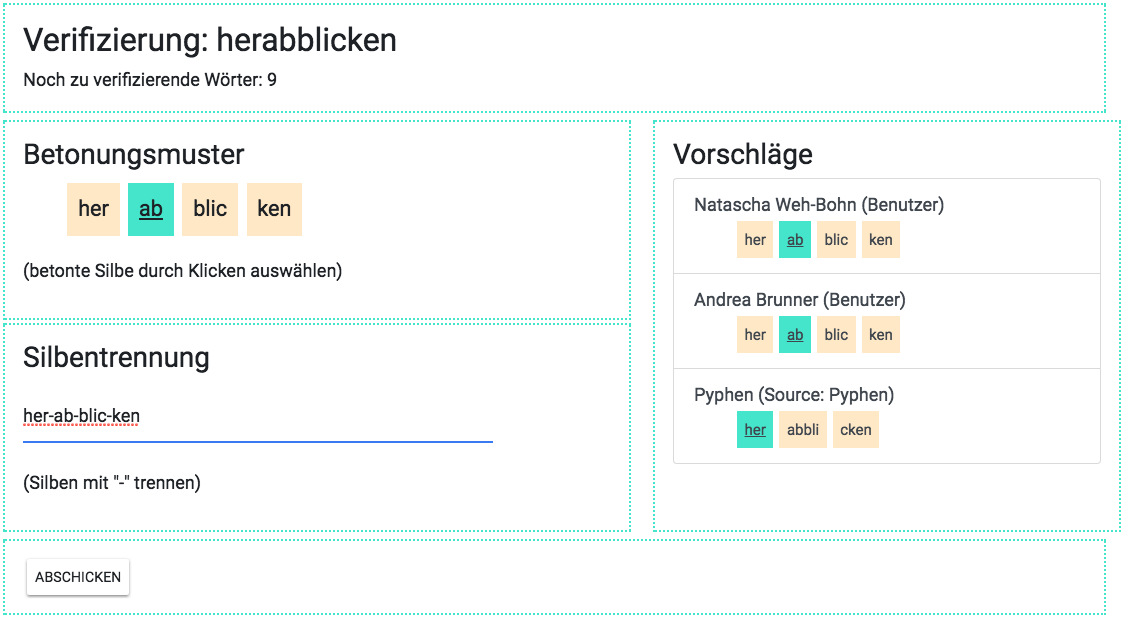
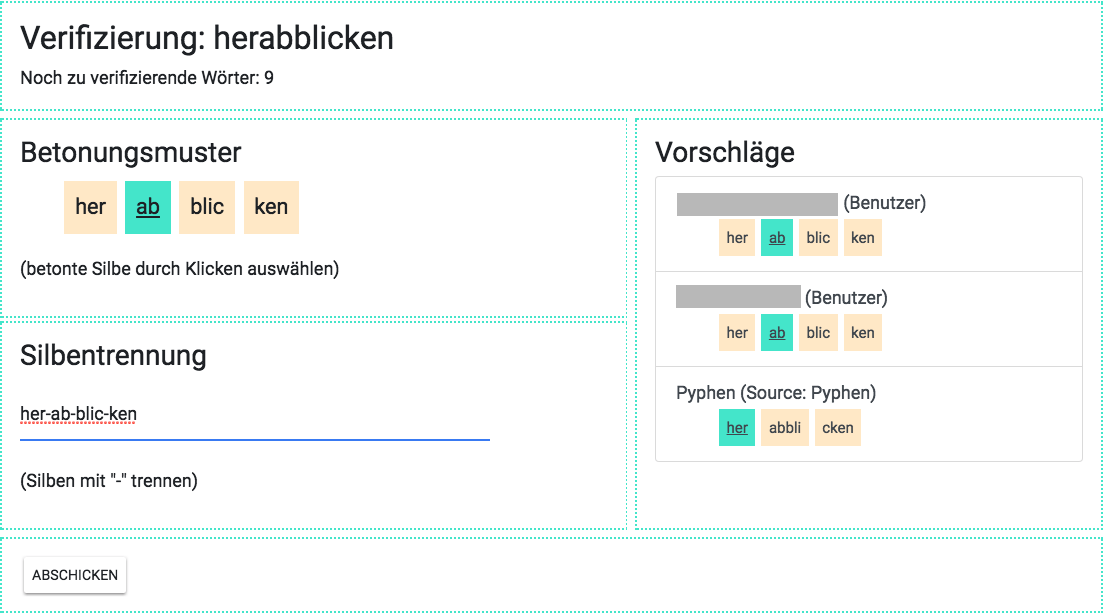
renamed thesis to actual title, wrote abstract

diff --git a/thesis/chapters/forschung.tex b/thesis/chapters/forschung.tex
@@ -39,19 +39,25 @@ vorhandene tools vorstellen, Literatur zu Tools, zeigen, wie diese Ideen weiterg
 
 Um das Ziel einer automatischen Analyse und Annotation beliebiger Texte zu realisieren, werden computerlinguistisch vor Allem die folgenden zwei Schritte untersucht:
 \begin{enumerate}
-	\item Linguistische Analyse (Zerlegung des Texts Wörter)
-	\item Nachschlagen der Betonungsmuster in einer Datenbank
+	\item Linguistische Analyse (Zerlegung des Texts in Wörter)
+	\item Bestimmung von Silbentrennung und Betonungsmuster
 \end{enumerate}
 
 \subsection{Linguistische Analyse}
-Da die vom Programm zu verarbeitende Eingabe ein Text ist, also eine beliebige Folge von alphanumerischen Zeichen, sowie Leerraumzeichen und Interpunktionen, muss diese Eingabe zunächst korrekt in Wörter zerteilt werden. Dieser Schritt wird \textbf{Tokenisierung} genannt. Zusätzlich werden auch von einem \textbf{Tagger} jedem Wort weitere Informationen, wie z.B. die Wortart (\textit{Part-of-Speech/POS-Tagger}) hinzugefügt. Diese werden üblicherweise mithilfe eines entsprechenden Lexikons nachgeschlagen. \cite{Carstensen2009}\todo{2. auflage 2014, S. 218-220, 224-226} Der für dieses Projekt verwendete Parser wird in Abschnitt \toref{spacy} näher beschrieben.
+Da die vom Programm zu verarbeitende Eingabe ein Text ist, also eine beliebige Folge von alphanumerischen Zeichen, sowie Leerraumzeichen und Interpunktionen, muss diese Eingabe zunächst korrekt in Wörter zerteilt werden. Dieser Schritt wird \textbf{Tokenisierung} genannt. Zusätzlich werden auch von einem \textbf{Tagger} jedem Wort weitere Informationen, wie z.B. die Wortart (\textit{Part-of-Speech/POS-Tagger}) hinzugefügt. Diese werden üblicherweise mithilfe eines entsprechenden Lexikons nachgeschlagen. \cite{Carstensen2009}\todo{2. auflage 2014, S. 218-220, 224-226} Der für dieses Projekt verwendete Parser wird in Abschnitt \toref{spacy} näher beschrieben. Beim Parsen des Texts können folgende wichtige Informationen extrahiert werden:
 
-\todo{Lemma, was ist das}\\
+\begin{itemize}
+	\item \textbf{Textstruktur}: Zerlegung des Texts in Tokens, dadurch wird bestimmt, ob es sich bei den Zeichenfolgen um Wörter oder andere Strukturen wie Leerraum oder Interpunktionen handelt
+	
+	\item \textbf{Wortart}: Die Werte der Wortart- (\textit{Part-of-Speech-}) Tags geben an um was für ein Wort es sich handelt (mit dem \textit{spacy} Parser z.B. \textit{NOM} für Nomen,\textit{PROPN} für Eigennamen, \textit{DET} für Artikel etc.)
+	
+	\item  \textbf{Lemma}: Gibt die Grundform eines Wortes an, welche je nach Wortart unterschiedliche Ausprägungen nehmen kann. Bei Verben steht hier z.B. der Infinitiv, bei Pronomen die erste Person Singular etc. \todo{hier Lemma für alle Wortarten beschreiben?}
+\end{itemize}
 
 \subsection{Datenbanken zur Wortbetoung}
-Nachdem der Text als Liste von Wörtern (Tokens) vorliegt kann auf dieser Ebene weitergearbeitet werden. Für die gewünschte Annotation des Textes muss eine Repräsentation in einzelnen Silben vorliegen. Zusätzlich wird für die Hervorhebung des Sprachrhythlmus die betonte Silbe im Wort gesucht. Es ist durchaus möglich, dass in einem Wort mehrere Betonungen vorkommen (gerade bei Wortkompositionen, die im Deutschen häufig zu finden sind, z.B. \textit{heraus+kommen}). Dies wird in der vorliegenden Arbeit vernachlässigt, es wird nur eine Hauptbetonung, die erste vorkommende Betonung im Wort, gesucht.\\
-Informationen zur Worttrennung in Silben und zur Wortbetonung lassen sich in diversen Lexika finden. Für die weitere Verwendung in der zu entwickelnden Applikation wurde als Grundlage das Lexikon CELEX2 gewählt. Dabei handelt es sich um ein umfangreiches Sprachlexikon für die Sprachen Englisch, Deutsch und Niederländisch. Verarbeitet wurden hier zunächst nur die deutsche Sprache. Neben der gesuchten Worttrennung und -betonung enthält es auch weitere linguistische Informationen wie Wortart und Grundformen sowie phonologische und orthographische Annotationen.
+Liegt der Text als Liste von Wörtern (Tokens) vor, kann auf dieser Ebene weitergearbeitet werden. Für die Annotation des Textes muss eine Repräsentation in einzelnen Silben vorliegen. Zusätzlich wird für die Hervorhebung des Sprachrhythmus die betonte Silbe im Wort gesucht. Es ist durchaus möglich, dass in einem Wort mehrere Betonungen vorkommen (gerade bei Wortkompositionen, die im Deutschen häufig zu finden sind, z.B. \textit{heraus+kommen}). Dies wird hier vernachlässigt, es wird nur eine Hauptbetonung, die erste vorkommende Betonung im Wort gesucht.\\
+Informationen zur Worttrennung in Silben und zur Wortbetonung lassen sich in diversen Lexika finden. \todo{Welche?} Für die weitere Verwendung in der zu entwickelnden Applikation wurde als Grundlage das Lexikon CELEX2 gewählt. Dabei handelt es sich um ein umfangreiches Sprachlexikon für die Sprachen Englisch, Deutsch und Niederländisch. Verarbeitet wurden hier zunächst nur die deutsche Sprache. Neben der gesuchten Worttrennung und -betonung enthält es auch weitere linguistische Informationen wie Wortart und Grundformen sowie phonologische und orthographische Annotationen \tocite{CELEX Publikation} .
 \todo{Alternativen, welche? könnten zusätzlich oder anstelle des CELEX verwendet werden}\\
-Weiterführend wurden auch Text-To-Speech Systeme untersucht. Diese müssen um zu funktionieren zwangsweise eine phonologische Analyse durchführen, also auch die Wortbetonung bestimmen. Beispielsweise liefern die Systeme MARY TTS\tocite{MARY, woher?} oder BAS\tocite{BAS} auch textuellen annotiere Formen ihrer phonologischen Analyse, die auch als Grundlage zur Extraktion von Worttrennung und Betonung dienen können.\\
+Weiterführend wurden auch Text-To-Speech Systeme \todo{beschreiben} untersucht. Diese müssen um zu funktionieren zwangsweise eine phonologische Analyse durchführen, also auch die Wortbetonung bestimmen. Beispielsweise liefern die Systeme MARY TTS\tocite{MARY, woher?} oder BAS\tocite{BAS} auch textuellen annotiere Formen ihrer phonologischen Analyse, die auch als Grundlage zur Extraktion von Worttrennung und Betonung dienen können.\\
 
-Linguistische Datenbanken sind aufgrund des Umfangs und der Flexibilität von Sprachgrammatiken niemals vollständig\tocite{lixika, datenbanken}. Es wurde daher ein Weg gesucht die Datenbank auf unkomplizierte Weise erweiterbar zu machen. Dies kann mit einem geeignete User-Interface durch Experten erfolgen, die unbekannte Einträge ergänzen und hinzufügen. Einige Arbeiten hatten bereits Erfolg damit, solche Aufgaben effektiv auch auf Nutzer zu verteilen, die keine Experten für den jeweiligen Anwendungsbereich sind. Auf Plattformen wie Amazon Mechanical Turc oder CrowdFlower können beispielsweise leicht Arbeiter anonym engagiert werden, die solche Aufgaben erledigen\cite{Snow2008}. Diese Plattformen wurden beispielsweise von Zaidan (Übersetzungen)\cite{Zaidan2011} oder Meurers\cite{Meurers2015} (\todo{wofür?}) benutzt, um computerlinguistische Aufgaben zu erledigen.
+Linguistische Datenbanken sind aufgrund des Umfangs und der Flexibilität von Sprachgrammatiken niemals vollständig\tocite{lexika, datenbanken}. Es wurde daher ein Weg gesucht die Datenbank auf unkomplizierte Weise erweiterbar zu machen. Dies kann mit einem geeignete User-Interface durch Experten erfolgen, die unbekannte Einträge ergänzen und hinzufügen. Einige Arbeiten hatten bereits Erfolg damit, solche Aufgaben effektiv auch auf Nutzer zu verteilen, die keine Experten für den jeweiligen Anwendungsbereich sind. Da die zu entwickelte Applikation auch eine Nutzerverwaltungssystem beinhaltet, wurde untersucht ob Datenbankeinträge mithilfe mehrerer Nicht-Experten Nutzer per einfachem Mehrheitsentscheid verifiziert werden können. Weiterführend könnten auf Plattformen wie Amazon Mechanical Turc oder CrowdFlower beispielsweise leicht Arbeiter anonym engagiert werden, die solche Aufgaben erledigen\cite{Snow2008}. Diese Plattformen wurden beispielsweise von Zaidan und Callison-Burch (für automatisierte Übersetzungen)\cite{Zaidan2011} oder De Kuthy, Ziai und Meurers\cite{Meurers2015} (für Fokusannotation) benutzt, um computerlinguistische Aufgaben zu erledigen.

diff --git a/thesis/chapters/einleitung.tex b/thesis/chapters/einleitung.tex
@@ -6,7 +6,7 @@ In der vorliegenden Arbeit wurde eine Applikation entwickelt, die Fließtexte du
 
 LRS tritt bei ca. 700000 Kindern und Jugendlichen unter 18 Jahren auf \cite{Schulte-Koerne2014} \tocite{Seiten? Vorwort}. Bei Kindern mit LRS können gezielte Maßnahmen zu einer Verbesserung der Lesekompetenz führen \tocite{???}. Das Lesen speziell bearbeiteter Texte zielt darauf ab, die Dekodierfähigkeit zu verbessern, was neben anderen Faktoren einen Teil der Ursachen für LRS abdeckt. \tocite{schulte k, findeisen, s. 52}. Eine Zentrale Rolle beim Schrifterwerb spielt das Erkennen von Silben. Es wurde gezeigt, dass beim Lesen Lernen, im Gegensatz zum einzelnen Buchstaben die Silbe als kleinste Einheit wahrgenommen wird. \tocite{wirklich? oder so aehnlich} Die Silbenmethode und Silbenfibeln sind beim Schrifterwerb im schulischen Umfeld im Einsatz \todo{seit wann?} und können Erfolge aufweisen\tocite{Silbenmethode, einsatz}.\\
 
-Die Applikation wurde mit der Motivation entwickelt, das Erstellen von Übungstexten zu vereinfachen und zu automatisieren. In den Übungstexten werden Wörter in Silben unterteilt, diese lassen sich mit verschiedenen Farben annotieren, außerdem kann die betonte Silbe im Wort speziell markiert werden. Weitere Merkmale, wie der Abstand zwischen Silben und Wörtern, sowie ein Silbentrennzeichen, lassen sich frei anpassen. Aktuell werden solche Texte oft manuell, z.B. mit einem Textverarbeitungsprogramm erstellt. Die Anwendung kann Therapeuten oder Eltern helfen, spezifisch zugeschnittene Übungen mit wenig Aufwand selbst zu erstellen. Im Folgenden Kapitel werden auch einige Alternativen vorgestellt, die das Lesen Lernen mit der Silbenmethode unterstützen.\\
+Die Applikation wurde mit der Motivation entwickelt, das Erstellen von Übungstexten zu vereinfachen und zu automatisieren. In den Übungstexten werden Wörter in Silben unterteilt, diese lassen sich mit verschiedenen Farben hervorheben, außerdem kann die betonte Silbe im Wort speziell markiert werden. Weitere Merkmale, wie der Abstand zwischen Silben und Wörtern, sowie ein Silbentrennzeichen, lassen sich frei anpassen. Aktuell werden solche Texte oft manuell, z.B. mit einem Textverarbeitungsprogramm erstellt. Die Anwendung kann Therapeuten oder Eltern helfen, spezifisch zugeschnittene Übungen mit wenig Aufwand selbst zu erstellen. Im Folgenden Kapitel werden auch einige Alternativen vorgestellt, die das Lesen Lernen mit der Silbenmethode unterstützen.\\
 
 
 
@@ -29,7 +29,7 @@ wie wurden features identifiziert: brainsorming, interview, fragebogen
 
 
 Die Entwicklung der Anwendung stellte verschiedene Herausforderungen in diversen Bereichen dar. Zuerst musste untersucht werden, wie in Wörtern Silbentrennung und Wortbetonung automatisch bestimmt werden kann. Hierfür wurde eine eigene Datenbank generiert, die diese und andere Merkmale speichert. Eine besondere Schwierigkeit stellte die Komplexität und der Umfang der deutschen Sprache dar. Als Grundlage für die Datenbank diente das Lexikon CELEX2, aus dem rund 360 000 Einträge extrahiert werden konnten. Damit ist es aber nicht möglich den sämtlichen Wortschatz lückenlos mit allen Wortbeugungen abzubilden. Es wurde deshalb nach einer Möglichkeit gesucht, eine Benutzerfreundliche Schnittstelle zu bieten, mit der leicht manuelle und korrekte Einträge der Datenbank von Nutzern und Experten hinzugefügt werden können.\\
-Eine weitere Schwierigkeit stellte die User Experience dar. Die Zielgruppe der Nutzer, welche die Applikation letztendlich bedienen sollen, besteht hauptsächlich aus Lerntherapeuten, Nachhilfelehrern und Eltern von Betroffenen Kindern. Diese bringen sehr unterschiedliche Kenntnisse im Umgang mit Software mit. Haben die Nutzer Schwierigkeiten, das Programm zu benutzen, führt das schnell zu Frust und letztendlich dazu, dass die Software am Ende überhaupt nicht genutzt wird und die Aufgabe weiterhin manuell erledigt wird. \tocite{irgendwas mit user experience wichtig} Das Ziel war also die Oberfläche so einfach und intuitiv wie möglich zu gestalten, um Allen Nutzern einen reibungslosen Umgang mit der Applikation zu ermöglichen. Es wurde daher beschlossen eine Webbrowser-basierte Anwendung zu entwickeln, die plattformunabhängig funktioniert. Damit wurden von Anfang an Hürden, wie die Bindung an ein bestimmtes Betriebssystem und die Notwendigkeit der Installation von Software beseitigt.\\
+Einen weiteren wichtigen Punkt stellte die User Experience dar. Die Zielgruppe der Nutzer, welche die Applikation letztendlich bedienen sollen, besteht hauptsächlich aus Lerntherapeuten, Nachhilfelehrern und Eltern von Betroffenen Kindern. Diese bringen sehr unterschiedliche Kenntnisse im Umgang mit Software mit. Haben die Nutzer Schwierigkeiten, das Programm zu benutzen, führt das schnell zu Frust und letztendlich dazu, dass die Software am Ende überhaupt nicht genutzt und die Aufgabe weiterhin manuell erledigt wird. \tocite{irgendwas mit user experience wichtig} Das Ziel war also die Oberfläche so einfach und intuitiv wie möglich zu gestalten, um Allen Nutzern einen reibungslosen Umgang mit der Applikation zu ermöglichen. Es wurde daher beschlossen eine Webbrowser-basierte Anwendung zu entwickeln, die plattformunabhängig funktioniert. Damit wurden von Anfang an Hürden, wie die Bindung an ein bestimmtes Betriebssystem und die Notwendigkeit der Installation von Software beseitigt. Die Applikation kann von jedem Computer mit Internetverbindung und Webbrowser sofort benutzt werden. Nutzerspezifische Einstellungen sind überall gleichermaßen abrufbar.\\
 Im Evaluationsteil am Ende der Arbeit wird die Benutzbarkeit des Gesamtsystems anhand eines Nutzertests bewertet. Hierfür wurden als Probanden sowohl Experten (Lerntherapeuten und Nachhilfelehrer) \todo{wenns geklappt hat...} als auch Laien (wie es die Eltern von betroffenen Kindern meist sind) herangezogen und die Unterschiede der beiden Gruppen verglichen.
 
-In den Folgenden Kapiteln werden zunächst die Grundlagen zur Lese-Rechtschreibschwäche sowie zu linguistischen Begriffen und Algorithmen gegeben. Danach wird der Prozess der Planung und Entwicklung der Software beschrieben. Detaillierte Beschreibungen zu einzelnen Komponenten und zum Zusammenspiel dieser sollen verdeutlichen, wie das System funktioniert. Den Abschluss der Arbeit bildet die Evaluation anhand von Beispielen mit der Applikation produzierter Texte und der Beschreibung und Durchführung des Nutzertests. Hier wird gezeigt, wie die Software im tatsächlichen Einsatz zu bewerten ist. Die Evaluation zeigt sowohl Stärken als auch Schwächen des Systems auf, die in einem Weiteren Einsatz noch zu beheben sind. Die Flexibilität des Gesamtsystems, schaffte zudem viele anregende neue Ideen, die im Anschluss an diese Arbeit gut realisierbar wären.
+In den Folgenden Kapiteln werden zunächst die Grundlagen zur Lese-Rechtschreibschwäche sowie zu linguistischen Begriffen und Algorithmen gegeben. Danach wird der Prozess der Planung und Entwicklung der Software beschrieben. Detaillierte Beschreibungen zu einzelnen Komponenten und zum Zusammenspiel dieser sollen verdeutlichen, wie das System funktioniert. Den Abschluss der Arbeit bildet die Evaluation anhand von Beispielen mit der Applikation produzierter Texte und der Beschreibung und Durchführung des Nutzertests. Hier wird gezeigt, wie die Software im tatsächlichen Einsatz zu bewerten ist. Die Evaluation zeigt sowohl Stärken als auch Schwächen des Systems auf, die in einem Weiteren Einsatz noch zu beheben sind. Die Flexibilität des Gesamtsystems schaffte zudem viele anregende neue Ideen, die im Anschluss an diese Arbeit gut realisierbar sind.

diff --git a/thesis/chapters/zusammenfassung.tex b/thesis/chapters/zusammenfassung.tex
@@ -3,10 +3,11 @@
 \begin{abstract}
 \section*{Zusammenfassung}
 
-Problem LRS, Lesetraining analog, digital, Rolle der Sprachtherapheuten\\
-Methoden Silbentrennung, Wortbetonung, Tools dafür\\
-Herangehensweise: aufbau der Datenbank, Webapplikation (frontend/backend), user management, Verifizierungsprozess
-Evaluation mit Sprachtherapheuten, anderen (Eltern)
-Schlussfolgerungen: VIELLEICHT Tool vereinfacht prozess, benutzerfreundlich, Datenbank erweiterbar durch crowd sourcing
+Viele Menschen haben Schwierigkeiten, flüssig zu Lesen und zu Schreiben. Man spricht von einer Lese- Rechtschreibschwäche (LRS), wenn keine erkennbaren äußeren Umstände (wie soziales Umfeld, oder längerer Schulausfall z.B. durch Krankheit) die Entwicklung der Fähigkeiten zu Lesen und zu Schreiben beeinträchtigen. Es wurde gezeigt, dass gezielte Übungen, die das Erfassen von Silben und Sprachrhythmus dazu führen können, diese Fähigkeiten zu verbessern. In der Therapie werden häufig Übungstexte verwendet, in denen Silben abwechselnd in verschiedenen Schriftfarben dargestellt werden.\\
+
+In dieser Arbeit wurde eine Web-Applikation entwickelt, mit der es möglich sein sollte, solche farblich markierten Texte einfach und automatisch zu erstellen. Für die Verdeutlichung des Sprachrhythmus sollte auch die betone Silbe im Wort speziell markiert werden können. Dafür wurde zunächst untersucht, wie aus einem beliebigen Text automatisch Silbentrennung und Wortbetonung bestimmt werden können. Es wurde eine eigene Datenbank, basierend auf einem Lexikon aufgebaut, die für jedes Wort diese Merkmale enthält. Die Datenbank ist durch NutzerInnen der Anwendung erweiterbar, hinzugefügte Einträge müssen von ExpertInnen oder anderen NutzerInnen verifiziert werden, damit sie für Alle verfügbar sind.\\
+Für die Entwicklung der Applikation wurde zunächst eine Anforderungsanalyse durchgeführt und festgelegt welche Technologien für die Implementierung verwendet werden sollten. Es wurden anschließend zwei Hauptkomponenten entwickelt: Auf der einen Seite das Backend, welches Anfragen der Web-Applikation entgegen nimmt (z.B. einen zu analysierenden Text) und die Antwort an diese zurücksendet. Das Backend verwaltet die erstellte Wortdatenbank sowie eine weitere Datenbank, die nutzerspezifische Einstellungen speichert. Auf der anderen Seite steht die Entwicklung des Frontends, der eigentlichen Web-Applikation. Das Frontend interagiert mit NutzerInnen, schickt Anfragen an das Backend und stellt die erhaltenen Informationen entsprechend dar.\\
+
+Die Abschließende Evaluation zeigt, dass die Applikation Übungstexte erfolgreich erstellen kann. Im Nutzertest wurde festgestellt, dass die meisten Anwendungsfälle in der Web-Oberfläche intuitiv und zeiteffizient durchgeführt werden konnten. Die erkannten Probleme können durch eine Überarbeitung der Nutzeroberfläche mit wenig Aufwand behoben werden. Weitere Anmerkungen der ProbandInnen generierten interessante Ideen, die auf diese Arbeit aufbauend gut realisierbar sind.
 
 \end{abstract}

diff --git a/thesis/chapters/anforderungsanalyse.tex b/thesis/chapters/anforderungsanalyse.tex
@@ -2,7 +2,7 @@
 
 \chapter{Anforderungsanalyse und Spezifikation}
 
-Schon während der Konzeption des Projekts ist klar geworden, dass die zu entwickelnde Software eine relativ komplexe Architektur erfordert. Da eine Browser Applikation entwickelt wurde, musste die Software in Teilprojekte untergliedert werden. Zum einen das User-Interface für die Web Applikation und zum Anderen die Programmlogik, welche auf Grund der benötigten Funktionalitäten (wie Datenbankanbindung und Algorithmen zur Textverarbeitung) nicht sinnvoll im Web Client implementiert werden konnte.\\
+Während der Konzeption des Projekts ist klar geworden, dass die zu entwickelnde Software eine relativ komplexe Architektur erfordert. Da eine Browser Applikation entwickelt wurde, musste die Software in Teilprojekte untergliedert werden. Zum einen das User-Interface für die Web Applikation und zum Anderen die Programmlogik, welche auf Grund der benötigten Funktionalitäten (wie Datenbankanbindung und Algorithmen zur Textverarbeitung) nicht sinnvoll im Web Client implementiert werden konnte.\\
 Um eine Spezifikation für die Software zu entwerfen und den zu verwendenden Software-Stack zu definieren, wurde zunächst eine Anforderungsanalyse durchgeführt, die im Folgendem Teil beschrieben wird. Im darauffolgenden Kapitel gehe ich Schritt für Schritt auf die Entwicklung des Gesamtsystems ein.
 
 \section{Anforderungen an die Software}

diff --git a/thesis/chapters/entwicklung.tex b/thesis/chapters/entwicklung.tex
@@ -402,6 +402,6 @@ TBD
 \begin{figure}[h!]
 	\centering
 	\includegraphics[width=.8\linewidth]{figures/frontend/verifizierung}
-	\caption{Bildschirmfoto der Verifikation von manuell hinzugefügten Wörtern \todo{Namen unkenntlich machen!}}
+	\caption{Bildschirmfoto der Verifikation von manuell hinzugefügten Wörtern}
 	\label{fig:frontend-verification}
 \end{figure}
